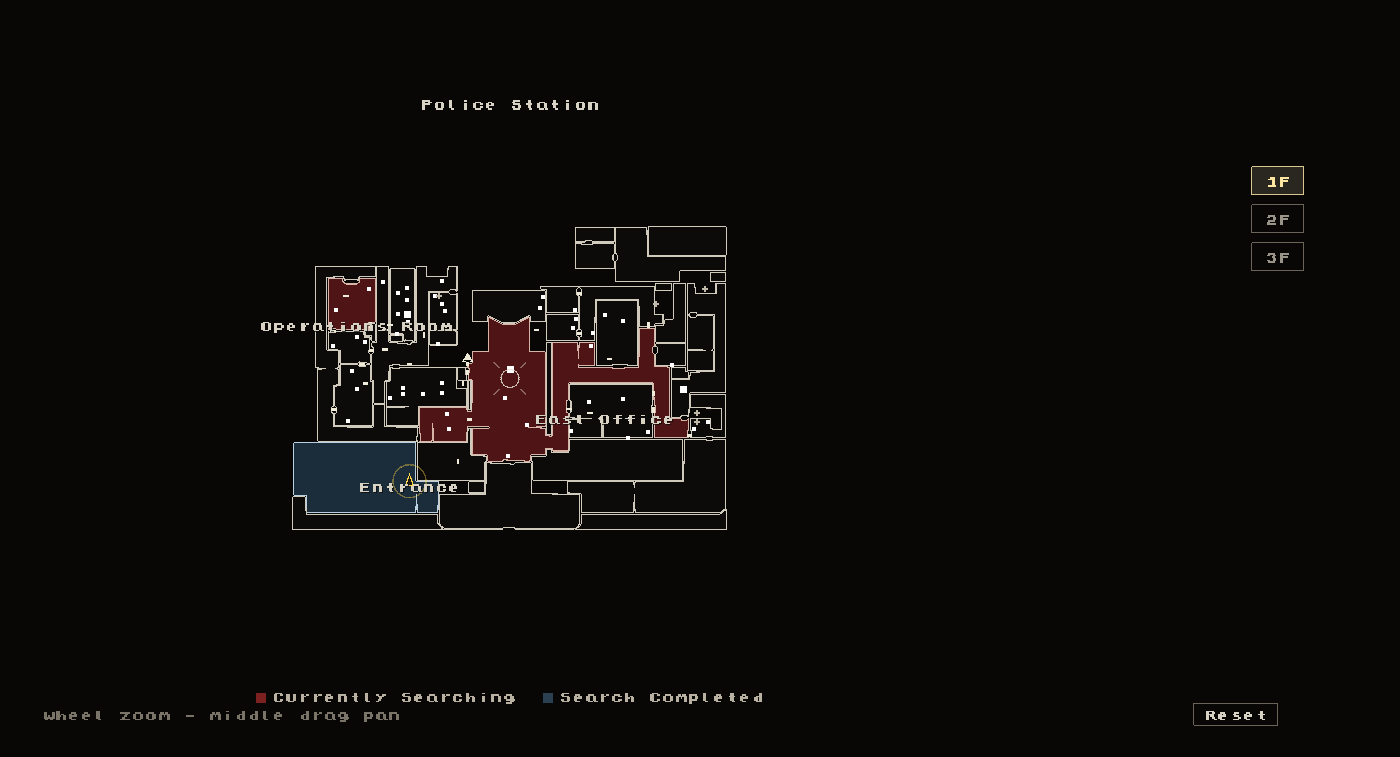
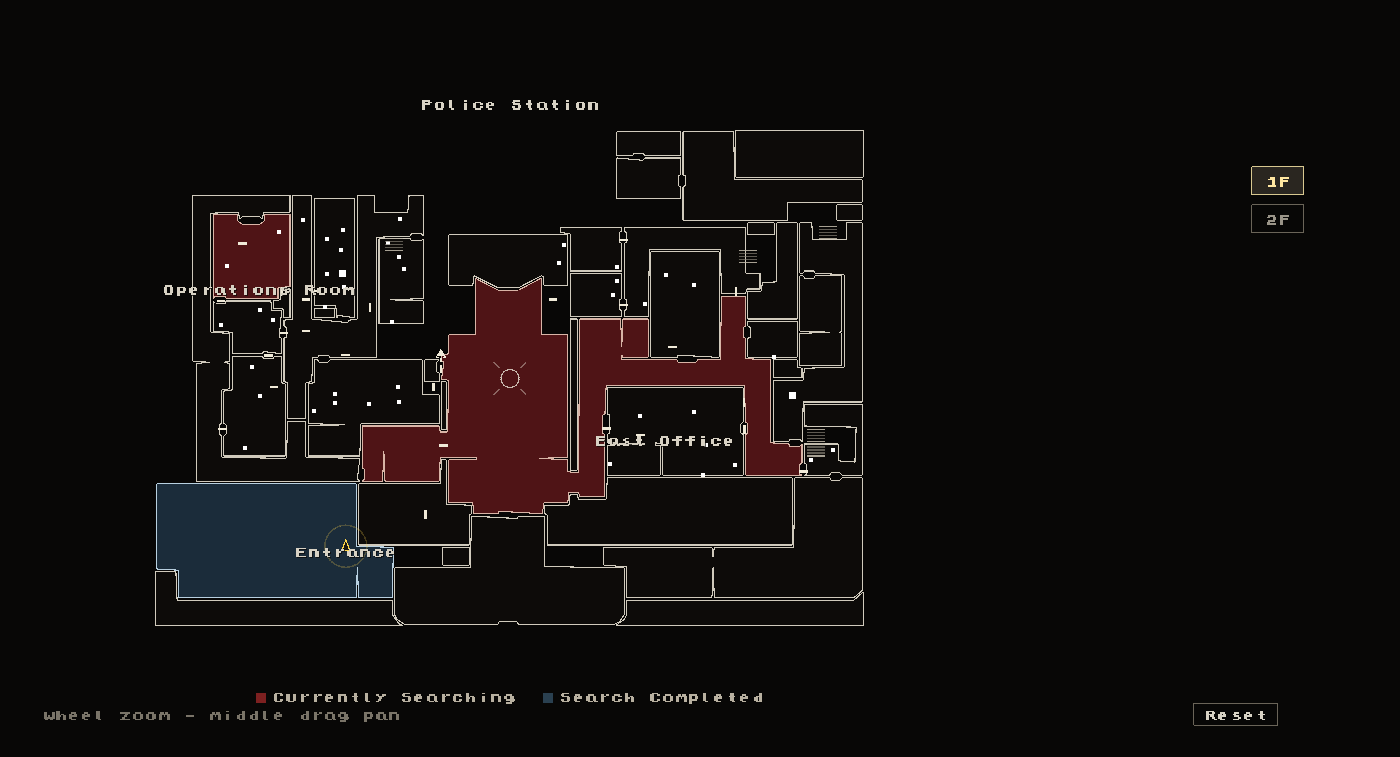
feat(re2map): draw stair step bands instead of plus markers
Render each stair as five parallel step lines with lighter edge bands,
matching the video's hatched staircase marks. The map labels check still
passes with the new stair style.

diff --git a/native/src/rpd_overlay.c b/native/src/rpd_overlay.c
@@ -378,8 +378,11 @@ static void draw_map(void) {
         float sx, sy;
         project(stair->x, sy0, stair->z, &sx, &sy);
         if (sx < -1e8f) continue;
-        line(sx - 3.0f, sy, sx + 3.0f, sy, 2.0f, 0xbfb8a8ff);
-        line(sx, sy - 3.0f, sx, sy + 3.0f, 2.0f, 0xbfb8a8ff);
+        for (int step = 0; step < 5; step++) {
+            float ly = sy - 6.0f + (float)step * 3.0f;
+            uint32_t tone = (step == 0 || step == 4) ? 0xbfb8a8dd : 0x8a8478aa;
+            line(sx - 9.0f, ly, sx + 9.0f, ly, 1.2f, tone);
+        }
     }
     float player[3];
     plan_player(player);
